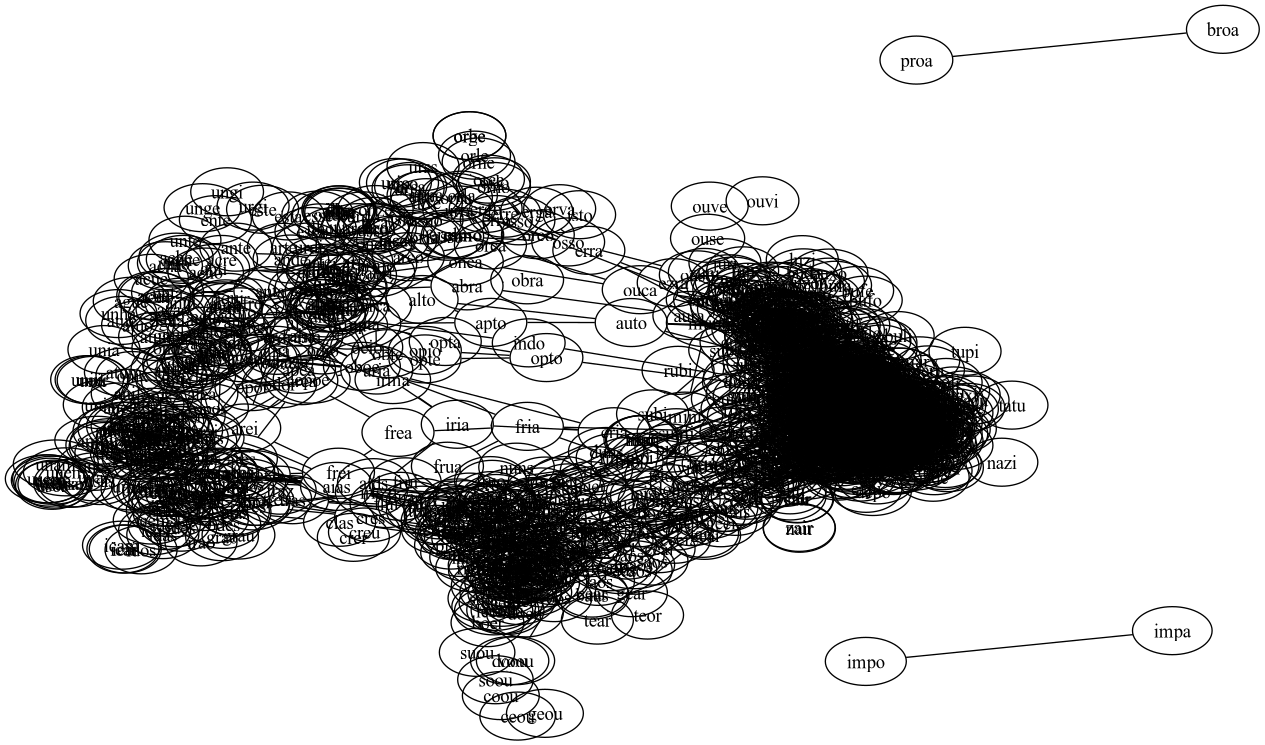
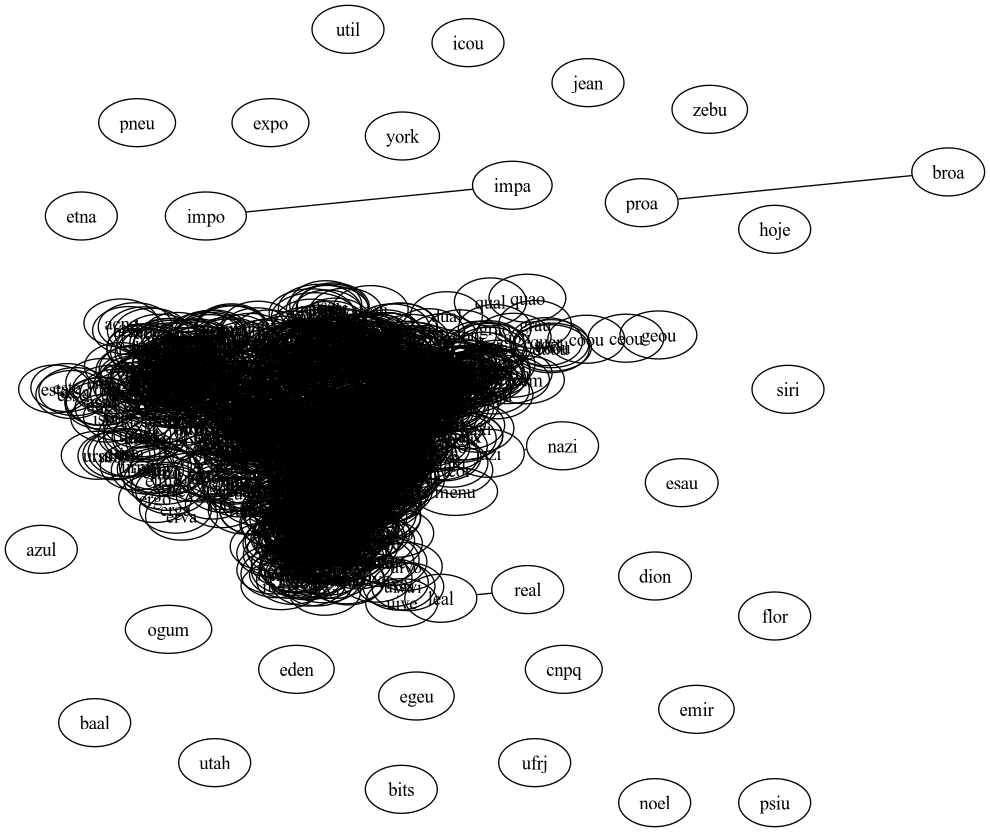
resultados

diff --git a/relatorio/relatorio.tex b/relatorio/relatorio.tex
@@ -206,13 +206,55 @@ gcc ./vendor/fort.c ls_adj.c hash.c arquivo.c main.c -O2 -o grafo -DCASE_SENSITI
 \end{lstlisting}
 \newpage
 \section{Análise dos Resultados}
+Antes de partir pros resultados, podemos tentar visualizar o grafo através de um
+programa dedicado a isso. Continuando o trabalho anterior, utilizamos o software
+\href{https://graphviz.org}{GraphViz} para isso:
+
+\begin{figure}[H]
+\centering
+\fbox{\includegraphics[width=0.6\textwidth]{./imagens/grafo.png}}
+\caption{Visualização do grafo através do software GraphViz.}
+\fbox{\includegraphics[width=0.6\textwidth]{./imagens/ponto.png}}
+\caption{Visualização com os vértices transformados em pontos.}
+\end{figure}
+
+Pelas imagens, é possível observar que há um grande componente conexo cercado
+por vários vértices nulos, juntamente a 2 componentes de tamanho 2
+Removendo esses pequenos componentes ao redor, podemos ter uma imagem mais clara
+do grande:
+
+\begin{figure}[H]
+\centering
+\fbox{\includegraphics[width=\textwidth]{./imagens/novo_grafo.png}}
+\caption{Visualização do maior componente conexo do grafo.}
+\end{figure}
+
+\subsection{Resultados obtidos}
 A partir da execução das funcionalidades implementadas, foi possível observar
 algumas propriedades relevantes do grafo.
 
 Considerando o caso onde a \textit{case-sensivity} está desligada, temos que
 o grau máximo é 26, sendo o da palavra "caia". Além disso, o grau mínimo é 0 (vértice nulo), 
-tendo o valor compartilhado entre 25 palavras.
-\subsection{Resultados obtidos}
+com esse valor sendo compartilhado entre 25 palavras.
+
+Na verificação de multigrafo, não foram encontrados laços nem arestas multiplas,
+com o grafo sendo classificado como simples. Isso decorre logicamente da definição
+do grafo que estamos usando: como construímos uma aresta para cada duas palavras
+que diferem em apenas um caractere, é impossível a existência tanto de laços quanto
+de arestas múltiplas.
+
+Já na análise de componentes conexos, foram identificados 28 componentes, sendo um de tamanho
+$1575$, dois de tamanho $2$ e o restante de tamanho 1 (vértices isolados/nulos). Isso confirma
+nossa análise prévia, e mostra uma enorme desigualdade no grafo.
+
+Mesmo sendo um "\textit{overkill}", também criamos um histograma para a distribuição
+de componentes conexos, usando a ajuda do software \href{http://gnuplot.info}{gnuplot}:
+
+\begin{figure}[H]
+\centering
+\fbox{\includegraphics[width=\textwidth]{./imagens/histograma.png}}
+\caption{Histograma.}
+\end{figure}
 
 \newpage
 \section{Considerações Finais}